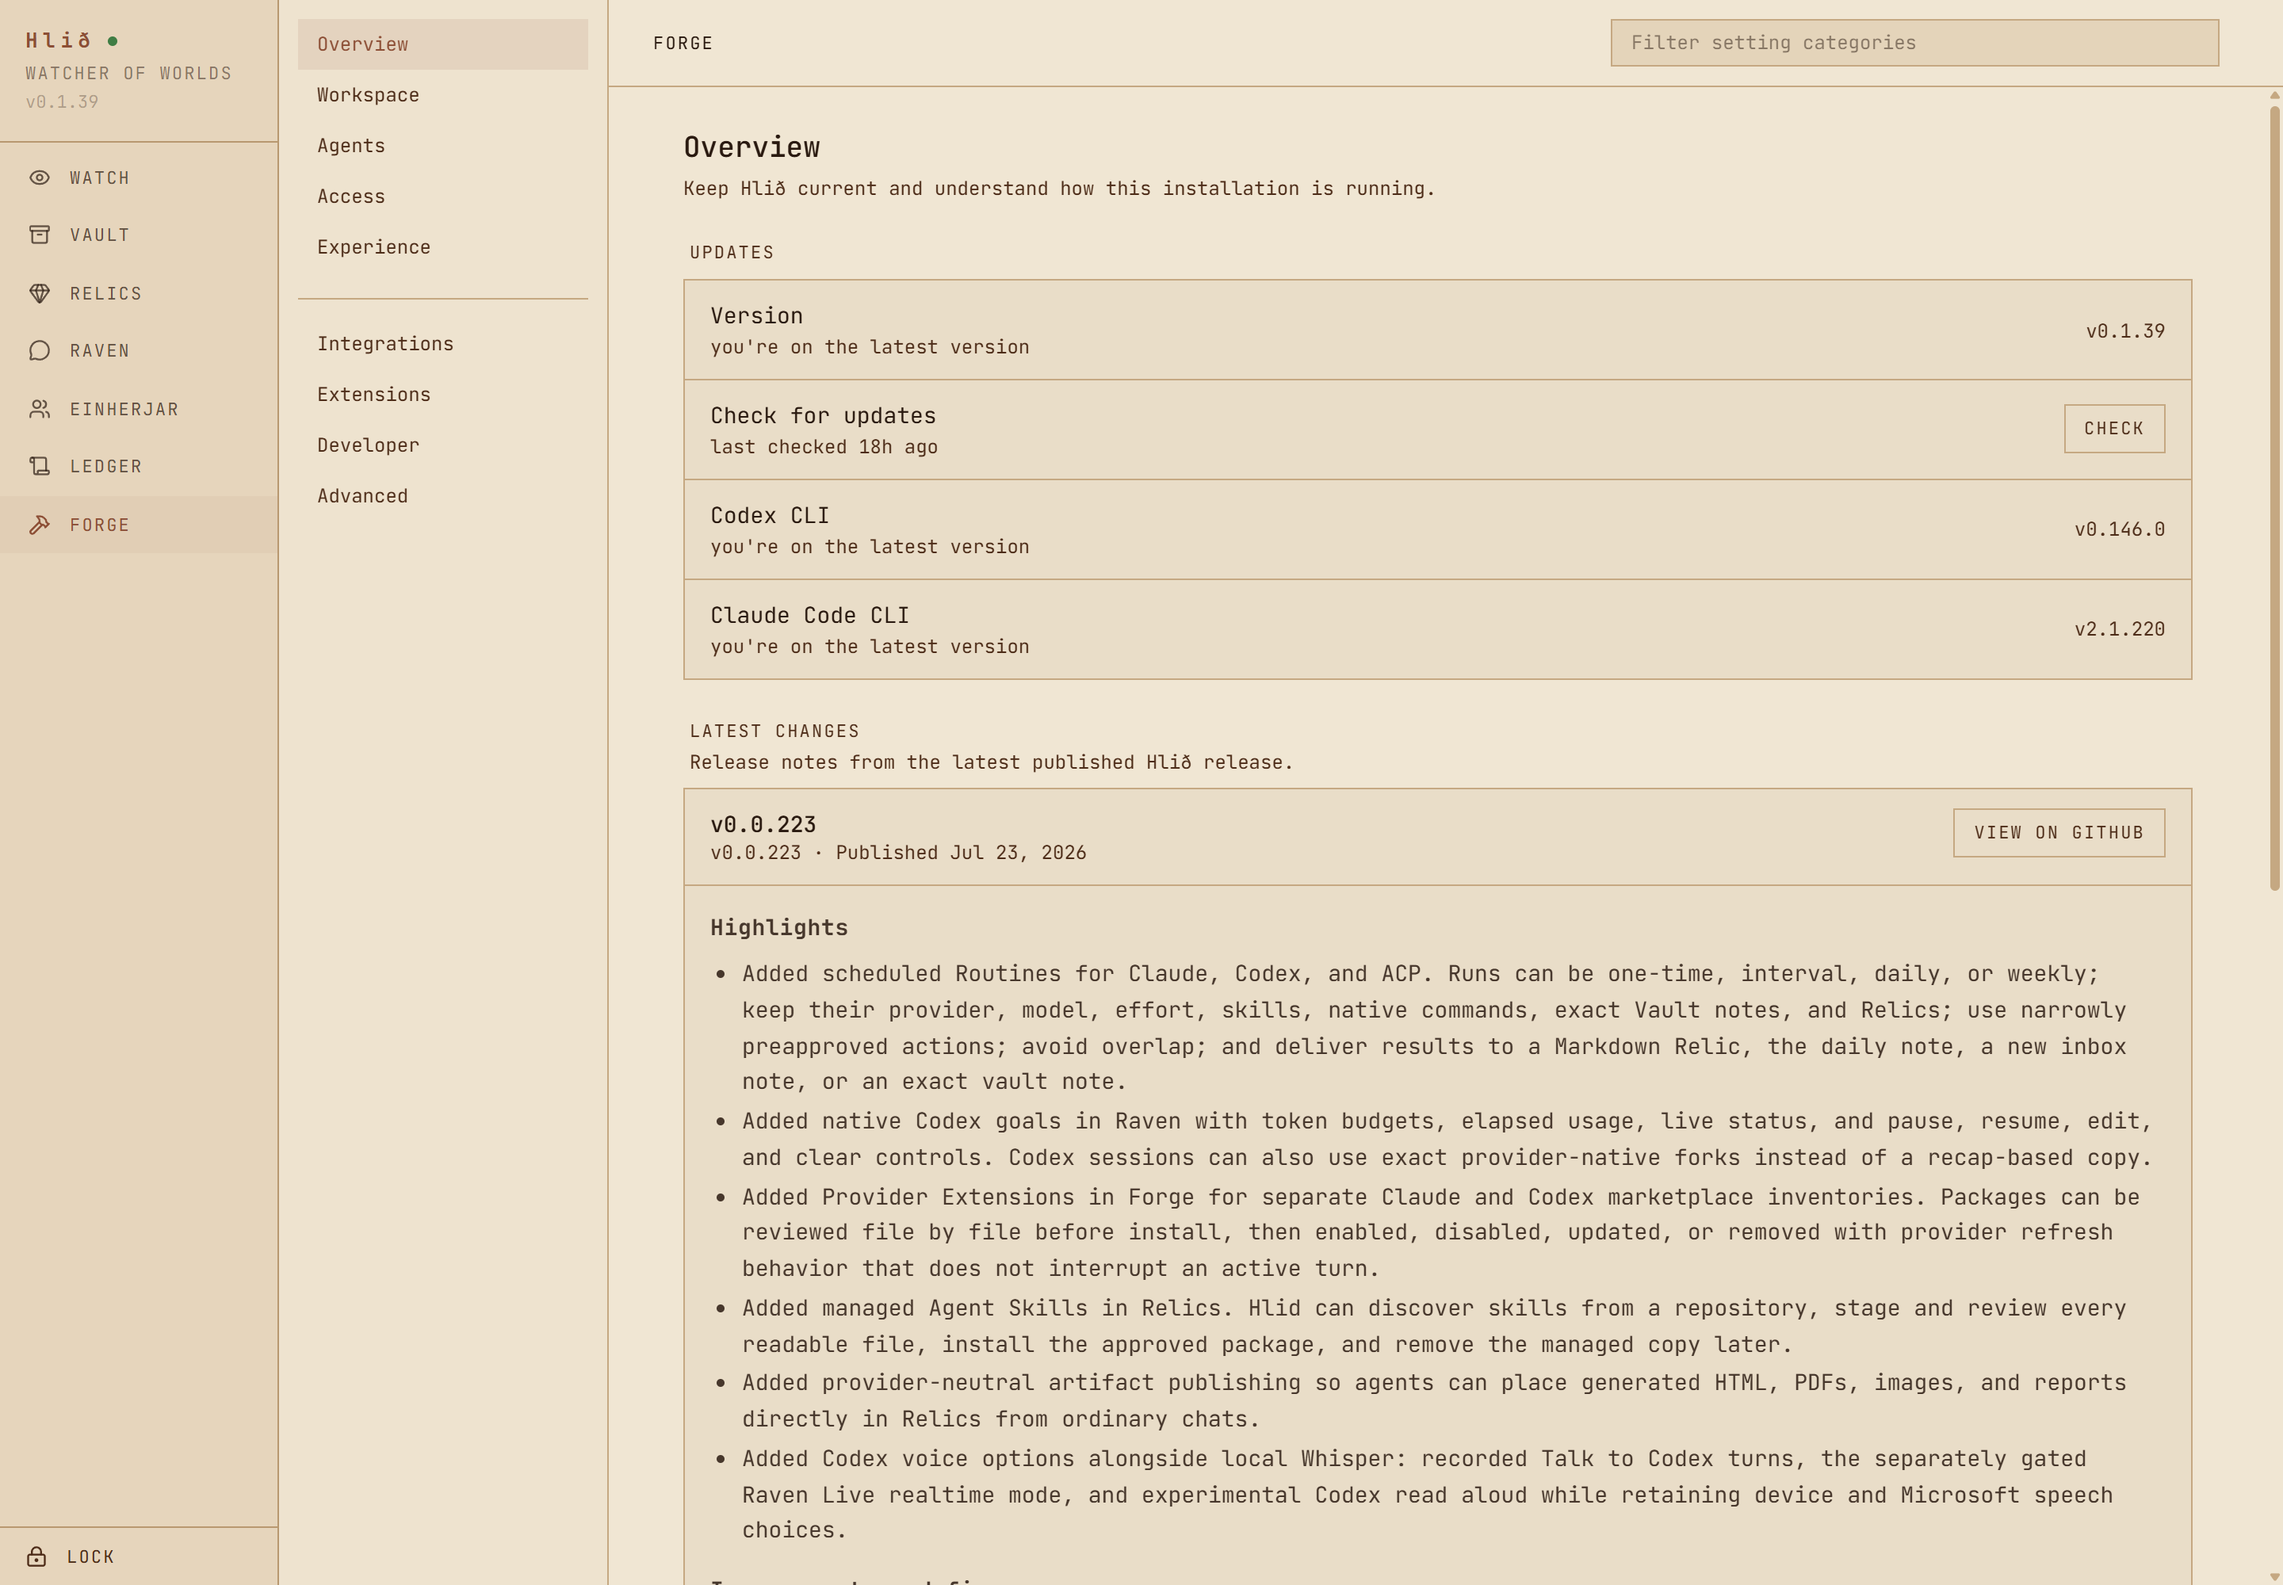
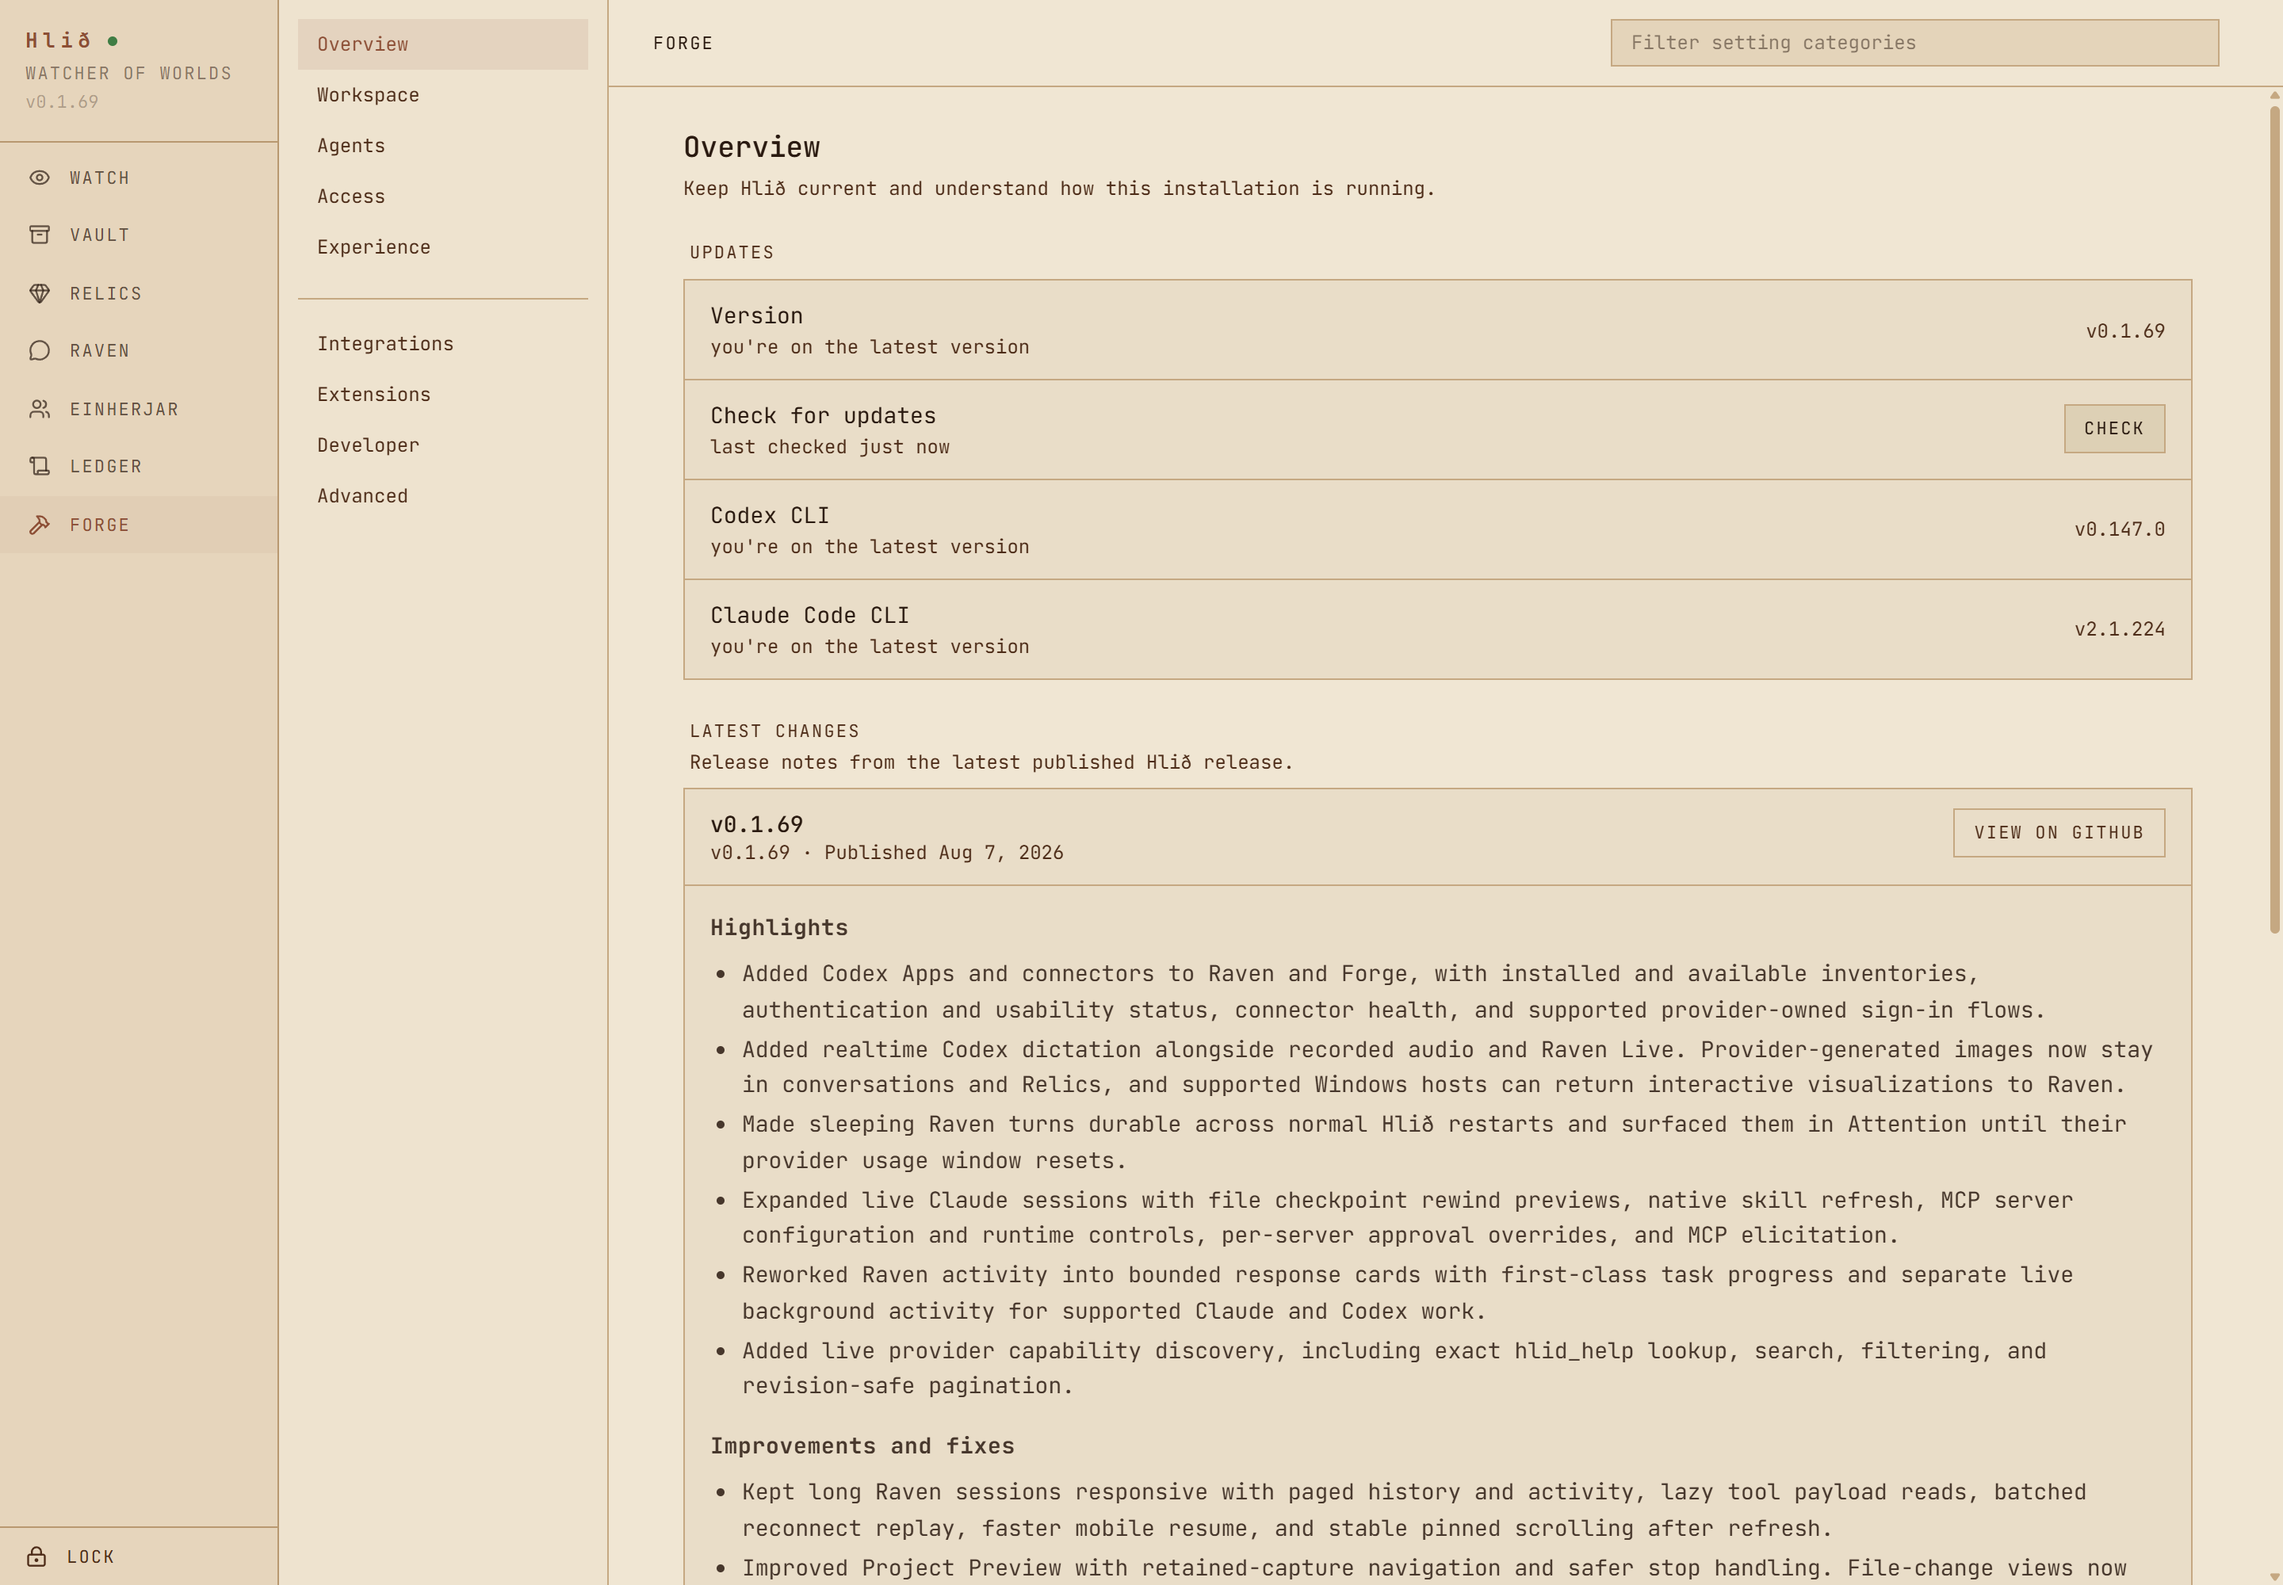
docs: align guide with current behavior

diff --git a/docs/user-guide.md b/docs/user-guide.md
@@ -170,9 +170,10 @@ conversation into a wall of details.*
 While a run is active:
 
 - Each response keeps its tool calls in one **Activity** card. It summarizes
-  running calls, errors, and steering, follows the live tail while open, and
-  collapses completed history by default. Long runs load earlier calls in
-  bounded batches instead of mounting the whole tool transcript at once.
+  running calls, errors, and steering, while provider task lists get their own
+  progress rows. The card follows the live tail while open and collapses
+  completed history by default. Long runs load earlier calls in bounded batches
+  instead of mounting the whole tool transcript at once.
 - Permission cards can approve once, approve for the session, save a permanent
   approval, or deny with feedback.
 - Another prompt gets queued instead of interrupting the current turn. Supported
@@ -194,9 +195,10 @@ While a run is active:
 - Long chats load the newest history first. **LOAD OLDER HISTORY** pulls in the
   earlier turns without jumping the scroll position around.
 - Supported `Claude` runs can move active Bash commands and subagents into the
-  background without ending the response. `Raven` keeps running provider work
-  in a separate **BACKGROUND ACTIVITY** panel with recent output and the exact
-  stop controls that provider exposes.
+  background without ending the response. `Codex` can report native background
+  terminals too. `Raven` keeps that provider work in a separate **BACKGROUND
+  ACTIVITY** panel with recent output and the exact stop controls that provider
+  exposes.
 - Agent output can render tables, alerts, highlighted text, `Mermaid`, and
   `LaTeX` math using `$...$`, `$$...$$`, `\(...\)`, or `\[...\]`.
 - Provider-generated images stay inline with their prompt, dimensions, download,
@@ -307,7 +309,9 @@ without clearing the recorded conversation. When the session uses
 **Auto-approve all** and `Umbod` is not enforcing approvals, one server can
 inherit the session behavior, force **ask**, or use `Claude`'s native
 **auto-check** classifier. A per-server choice can only tighten native approval;
-it never bypasses `Hlið` policy.
+it never bypasses `Hlið` policy. When a `Claude` `MCP` server needs structured
+input, `Raven` shows the question inline with its server provenance and keeps it
+there until you answer or decline it.
 
 `Hlið` keeps a compact context receipt for supported turns. Open it from the turn
 or with `/context` to see exactly what `Hlið` supplied: the provider selection,
@@ -321,6 +325,12 @@ rewind control. `Hlið` always previews the affected files and line totals befor
 offering **REWIND FILES**. `Claude` only tracks edits made through its `Write`,
 `Edit`, and `NotebookEdit` tools. `Bash` changes, directories, `Git` state,
 other tool side effects, and conversation history are not rewound.
+
+If `Claude` starts a new native context, such as after `/clear`, `Hlið` keeps the
+recorded `Raven` conversation and inserts **Claude started a new native context**
+at the boundary. The next turn uses the new `Claude` context. `Hlið` also refuses
+messages sent from another `Claude` session instead of letting model-authored
+text show up as if you wrote a new prompt.
 
 `Claude` workflows stay `Claude` workflows. `/workflows` can inspect saved and
 recent runs, open their exact source, run or rerun one, stop or resume supported
@@ -472,6 +482,11 @@ when a provider has a skill with the same name. Removing the imported copy
 leaves the provider's original alone, ready to import again if that seemed like
 a better idea tomorrow.
 
+**Refresh** rescans those installed provider skills. An established live
+`Claude` chat refreshes its native skill list in place. A cold `Claude` chat
+picks up the new list the next time it connects, and the on-disk import catalog
+still refreshes either way.
+
 The same managed files show up under `Relics` in the composer `@` picker. Pick
 one there when an existing attachment, report, or generated plan needs to go
 back into a prompt. It stays a reference to `Hlið`'s managed copy, so there is no
@@ -507,6 +522,11 @@ that old. A row menu handles one rename or delete, pins a useful session to the
 top, or moves it into the archived view. Archiving is reversible, clears its
 pin, and protects the session from age-based cleanup. Supported idle `Claude` and
 `Codex` rows also get the exact fork action.
+
+Age-based cleanup previews the eligible sessions, messages, tool activity,
+database payload, and managed attachments before confirmation. It skips live,
+pinned, archived, imported, pending-turn, and protected delegation-lineage
+sessions. Their usage totals stay in `Ledger` after the session payload is gone.
 
 Delegated rows remember whether they are the parent or child and link back to
 the other side in `Raven`. Parent summaries roll up duration, tokens, cost, and
@@ -598,10 +618,10 @@ The search box filters whole setting categories. Vault `MCP` config stays scoped
 to the vault, and each `Einherjar` entry keeps its own `MCP` config on that agent's
 page. `Hlið` combines those compatibility files with provider-native and live
 runtime discovery into one scoped inventory. It does not dump servers from
-unrelated agents into one global list. `MCP` edits sync into the live vault
-session. Working-context changes still need a provider-session reload. That
-clears the live provider conversation but leaves its recorded `Ledger` history
-alone.
+unrelated agents into one global list. `MCP` edits sync into matching supported
+live `Claude` vault or `Einherjar` sessions. Other provider contexts need a
+provider-session reload before working-context changes take effect. That clears
+the live provider conversation but leaves its recorded `Ledger` history alone.
 
 **Integrations → Apps and Connectors** shows each capable provider separately.
 Installed and available Apps stay distinct from lower-level `MCP` connectors,
@@ -772,10 +792,13 @@ restart. The packaged `Windows` app includes the reviewed `Whisper` runtime, whi
 speech models stay as separate downloads.
 
 **Dictate with Codex · Preview** uses a realtime `Codex` session for the same
-editable draft or automatic send flow. It requires a native `Codex` chat, an
-account with realtime voice, and the **Developer Preview** switch under
-**FORGE → Experience → Voice input → Codex realtime**. It does not use the local
-`Whisper` model.
+editable draft or automatic send flow. It works in `Watch` or `Raven` when native
+`Codex` is selected, the main **Voice** toggle is on, and the **Developer
+Preview** switch under **FORGE → Experience → Voice input → Codex realtime** is
+on. Account and backend support are checked when the realtime session starts.
+The selected coding model does not need audio input. It does not use the local
+`Whisper` model, and its voice comes from the **Shared voice** setting used by
+`Raven Live` too.
 
 **Auto** uses a compatible `GPU` through `Vulkan` when it finds one, then falls back
 to `CPU`. **CPU only** stays on `CPU`. `Hlið` reports the backend and device it picked,
@@ -790,23 +813,28 @@ In `Watch` or `Raven`, tap the microphone once to record and again to stop. On
 desktop, the configured shortcut does the same thing. The default is
 `Alt+Shift+V`.
 
-The browser converts the recording to mono 16 kHz `WAV`, then the `Hlið` host
-transcribes it locally. The audio never becomes an attachment or database row.
-Depending on the `Forge` setting, the text either fills the draft or sends right
-away.
+For **Dictate with Whisper**, the browser converts the recording to mono 16 kHz
+`WAV`, then the `Hlið` host transcribes it locally. The audio never becomes an
+attachment or database row. Depending on the `Forge` setting, the text either
+fills the draft or sends right away.
 
 **Talk to Codex** records the full clip and sends it as a normal audio turn to
 the selected native `Codex` model. It appears only when that model and account
 support audio. Unlike dictation, it does not turn the recording into an
 editable draft first.
 
-With that same account capability and **Developer Preview** switch enabled, an
-idle native `Codex` chat also shows **Raven Live**. It opens a live microphone
-session with two-way audio and a running transcript. This is its own mode, not
-a replacement for local `Whisper` or the normal recorded audio turn.
+With **Developer Preview** enabled, an idle native `Codex` chat also shows
+**Raven Live** when the account and realtime backend support it. The selected
+coding model does not need audio input. `Raven Live` uses **Shared voice** and
+opens a live microphone session with two-way audio and a running transcript.
+You can mute the microphone without ending the session. Stop Live before sending
+a typed message or changing the chat controls. This is its own mode, not a
+replacement for local `Whisper` or the normal recorded audio turn.
 
 Remote microphone capture needs the `HTTPS` endpoint. If it is not working,
-check browser permission, `HTTPS`, the selected model, and the voice toggle.
+check browser permission, `HTTPS`, and the matching `Forge` voice settings. For
+**Talk to Codex**, also check that the selected model accepts audio. Realtime
+dictation and `Raven Live` use the separate account and backend gate.
 
 ### Attachments
 

diff --git a/README.md b/README.md
@@ -126,8 +126,9 @@ the vault directly when the `CLI` is not around.
 - **VAULT** browses notes, projects, memory, and skills, with a jump back into
   the `Obsidian` desktop when the `CLI` is connected.
 - **FORGE** is where all the setup lives: providers, permissions, networking,
-  voice, provider extensions, `Obsidian CLI`, `CLIProxyAPI`, `MCP`, `ACP`,
-  `Umbod`, updates, and lifecycle controls.
+  voice, provider extensions, provider `Apps` and connectors, `Obsidian CLI`,
+  `CLIProxyAPI`, `MCP`, `ACP`, `Umbod`, updates, storage maintenance, and
+  lifecycle controls.
 
 The [user guide](docs/user-guide.md) gets into the meat and potatoes of each
 page and the workflows that connect them.
